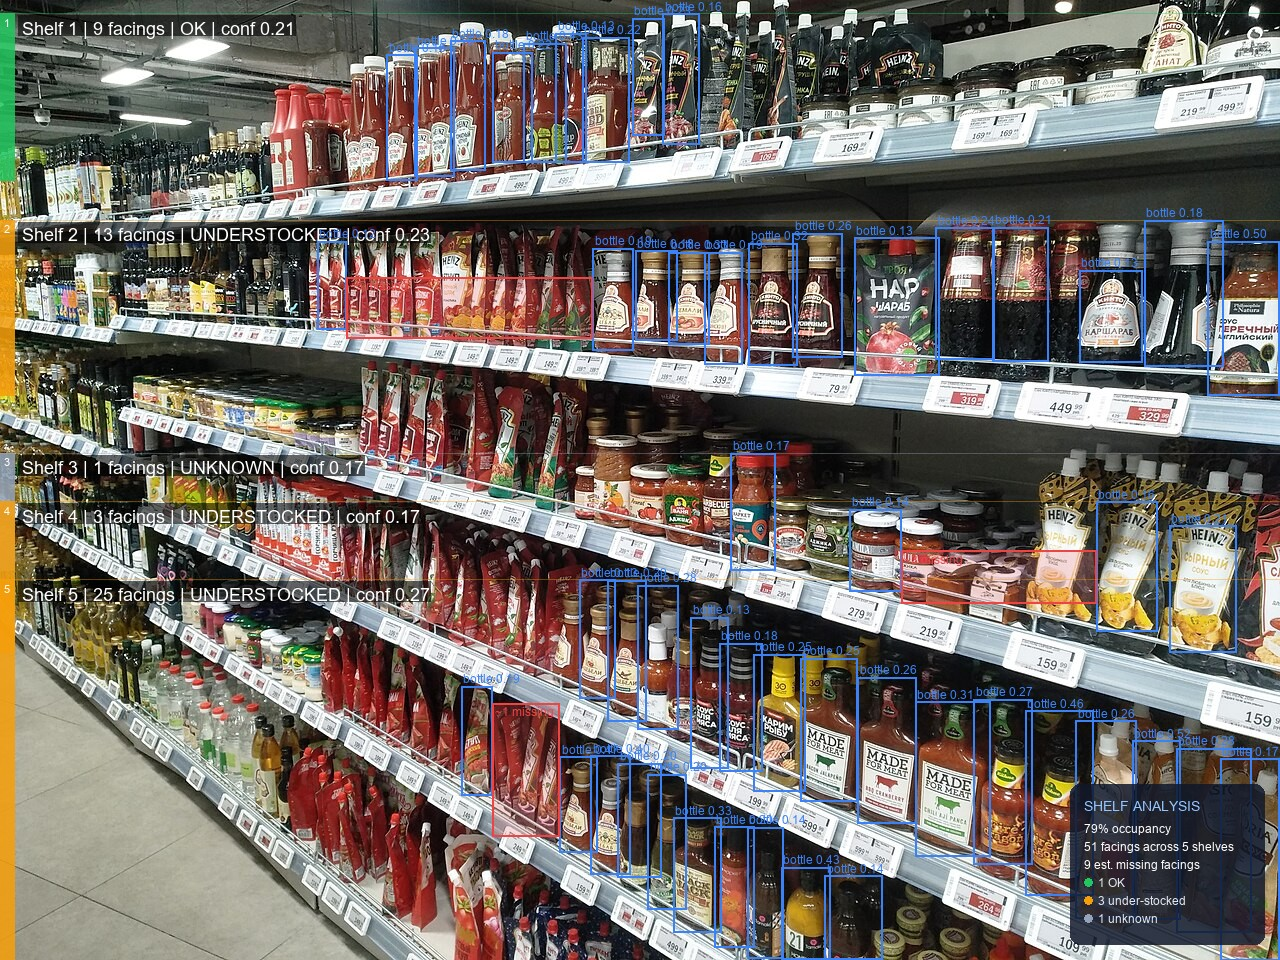
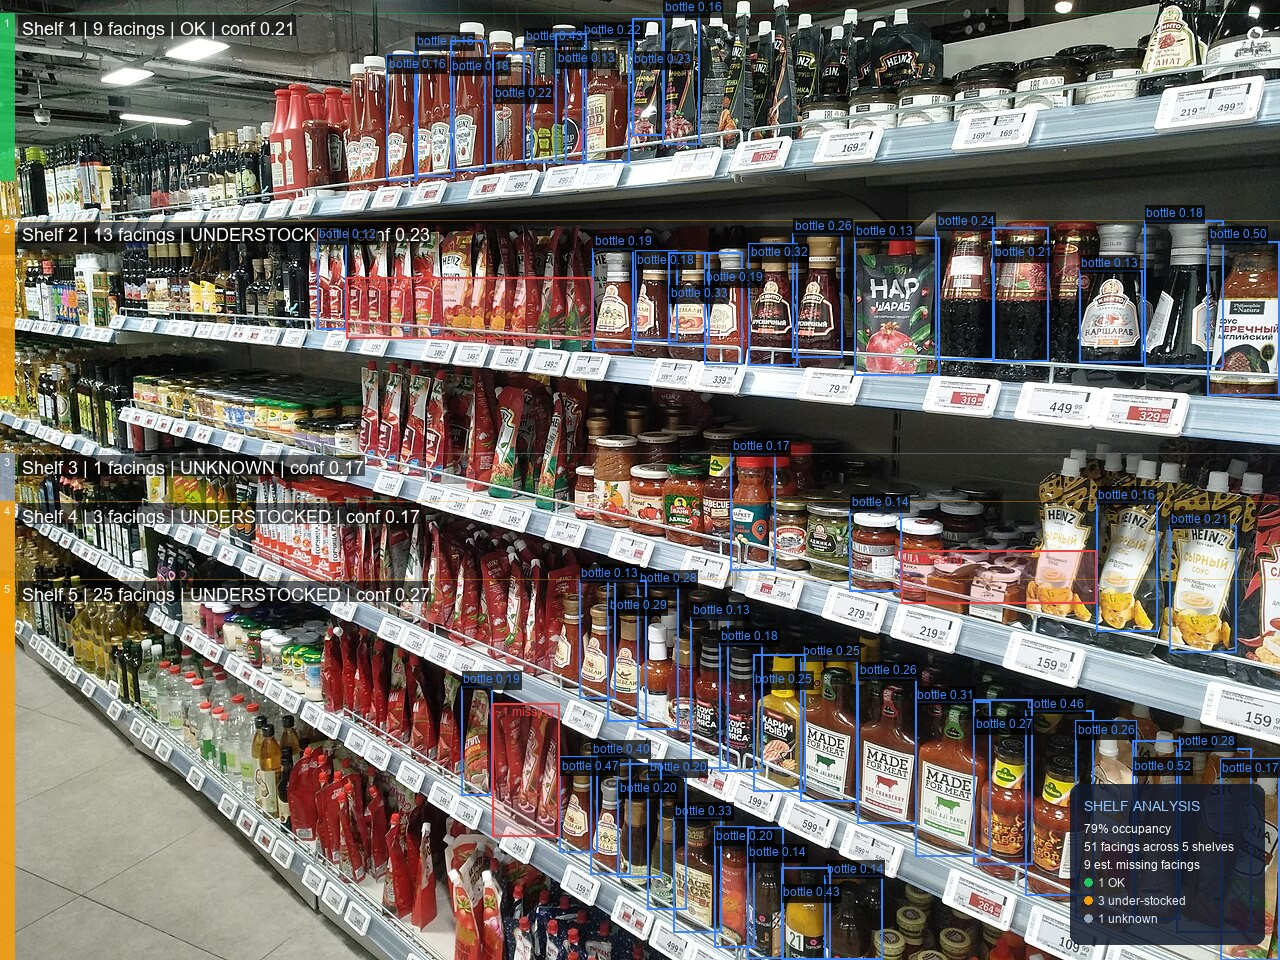
docs: add Clean vs Debug view examples with the harder sample photo
The README only showed one real output image (the easy soda-bottle
photo, Clean view). Add a dedicated examples section with three more
real pipeline outputs: the soda-bottle Debug view, and both Clean and
Debug views of the denser, steep-angle sauce-aisle photo (51 detections
across 5 shelves), which is also the case the debug-label
anti-collision pass was built for. Regenerate the two Debug-view sample
images so they reflect that fix instead of the old overlapping labels.

Cites the real shelf_count_note text from that photo's report as a
concrete example of the honest shelf-count-mismatch behavior described
earlier in the README.

diff --git a/README.md b/README.md
@@ -17,6 +17,7 @@ Detects product facings on a shelf photo, groups them into physical shelf rows, 
 - [What this is and is not](#what-this-is-and-is-not)
 - [Before and after](#before-and-after)
 - [Live demo](#live-demo)
+- [Examples: Clean vs Debug view](#examples-clean-vs-debug-view)
 - [Architecture](#architecture)
 - [How shelf row detection works](#how-shelf-row-detection-works)
 - [How detection cleanup works](#how-detection-cleanup-works)
@@ -68,6 +69,48 @@ The root cause and the fix are both documented with exact file and line referenc
 **Analysis result**, rendered from a real API response against the harder of the two bundled sample photos. Note the honest count-mismatch note instead of a fabricated sixth shelf, and the per-shelf confidence column:
 
 ![Analysis result](docs/screenshots/ui_results.png)
+
+## Examples: Clean vs Debug view
+
+Both bundled sample photos, run through the same live pipeline at the thresholds shown in [API reference](#api-reference), saved verbatim in `backend/sample_data/output/` and reproducible with `python backend/sample_data/generate_samples.py`.
+
+### Easier case: soda bottles, near-straight-on angle
+
+<table>
+<tr>
+<th align="center">Clean view</th>
+<th align="center">Debug view</th>
+</tr>
+<tr>
+<td><img src="backend/sample_data/output/shelf_soda_bottles_clean.jpg" width="480"></td>
+<td><img src="backend/sample_data/output/shelf_soda_bottles_debug.jpg" width="480"></td>
+</tr>
+<tr>
+<td align="center">87% occupancy, 23 facings across 3 detected regions, 3 est. missing facings</td>
+<td align="center">Per-box class and confidence labels plus a full-width status banner per shelf, for troubleshooting</td>
+</tr>
+</table>
+
+### Harder case: sauce aisle, steep angle, 51 detections
+
+<table>
+<tr>
+<th align="center">Clean view</th>
+<th align="center">Debug view</th>
+</tr>
+<tr>
+<td><img src="backend/sample_data/output/shelf_sauce_aisle_clean.jpg" width="480"></td>
+<td><img src="backend/sample_data/output/shelf_sauce_aisle_debug.jpg" width="480"></td>
+</tr>
+<tr>
+<td align="center">79% occupancy, 51 facings across 5 detected shelves, 9 est. missing facings (1 OK, 3 under-stocked, 1 unknown)</td>
+<td align="center">The densest bundled photo, and the case the label anti-collision pass in <code>annotation.py</code> exists for: a label that would overlap one already drawn just above it is nudged down or dropped, instead of stacking illegible text</td>
+</tr>
+</table>
+
+This photo was captured with a shelf plan of 6 rows in mind. Only 5 product rows were actually detected, and rather than fabricate a sixth, the API surfaces the ambiguity directly in `shelf_count_note`:
+
+> Expected 6 shelves but only 5 product row(s) were detected. The remaining 1 may be fully out of stock (no products for the detector to anchor a row on), or two physical shelves may be close enough in this photo to have been grouped into one detected row. This cannot be told apart from geometry alone; manual review is recommended for the missing shelves.
 
 ## Architecture
 
